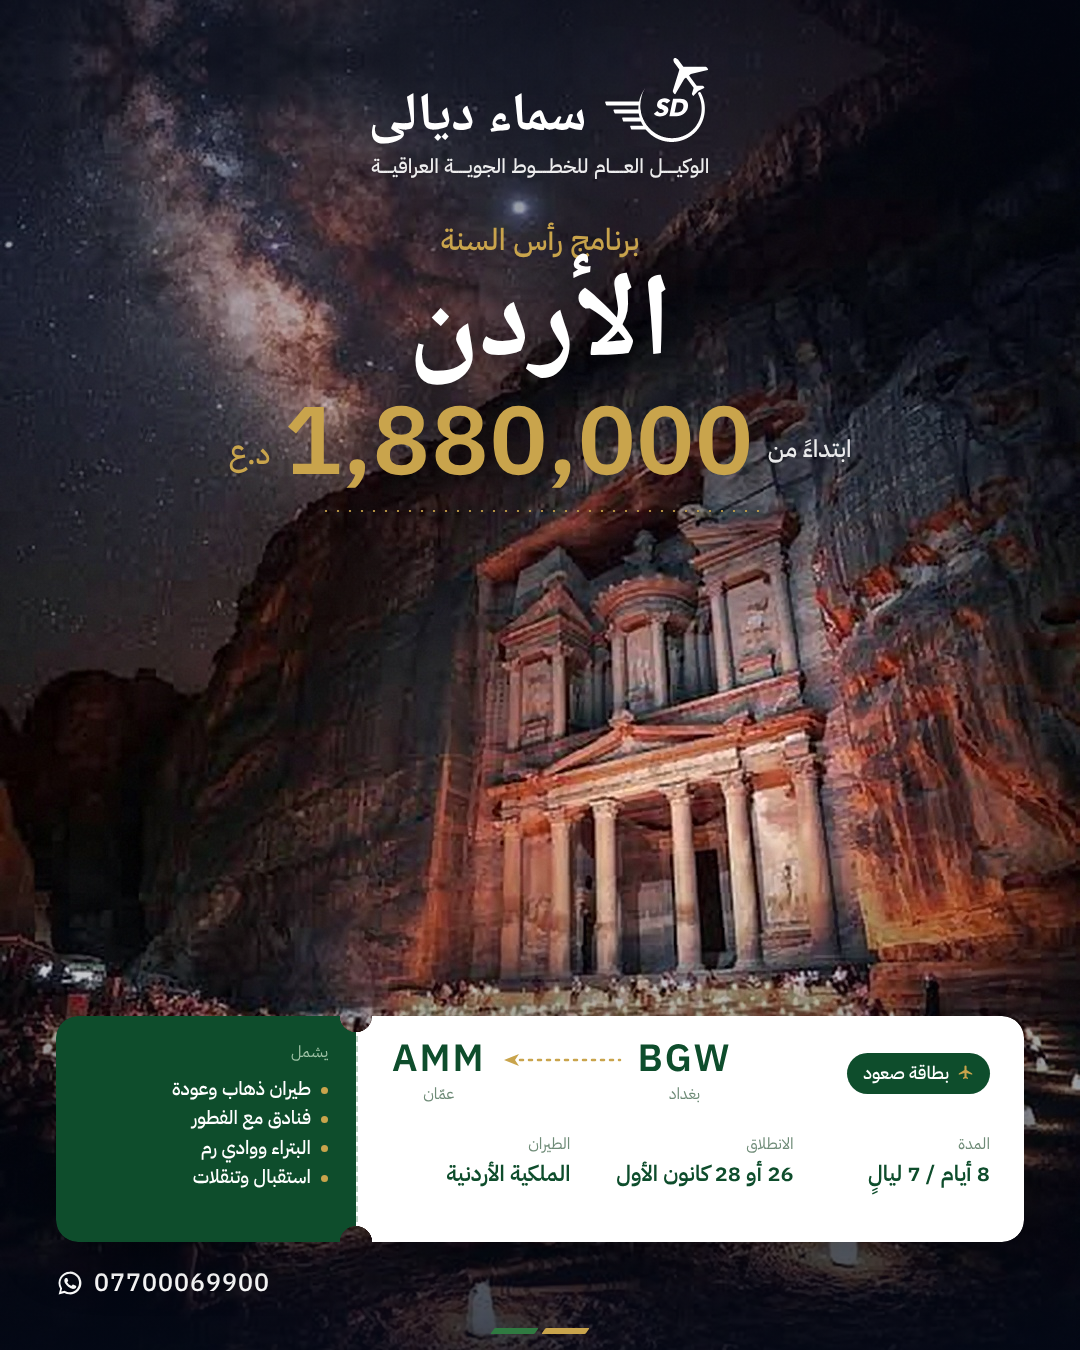
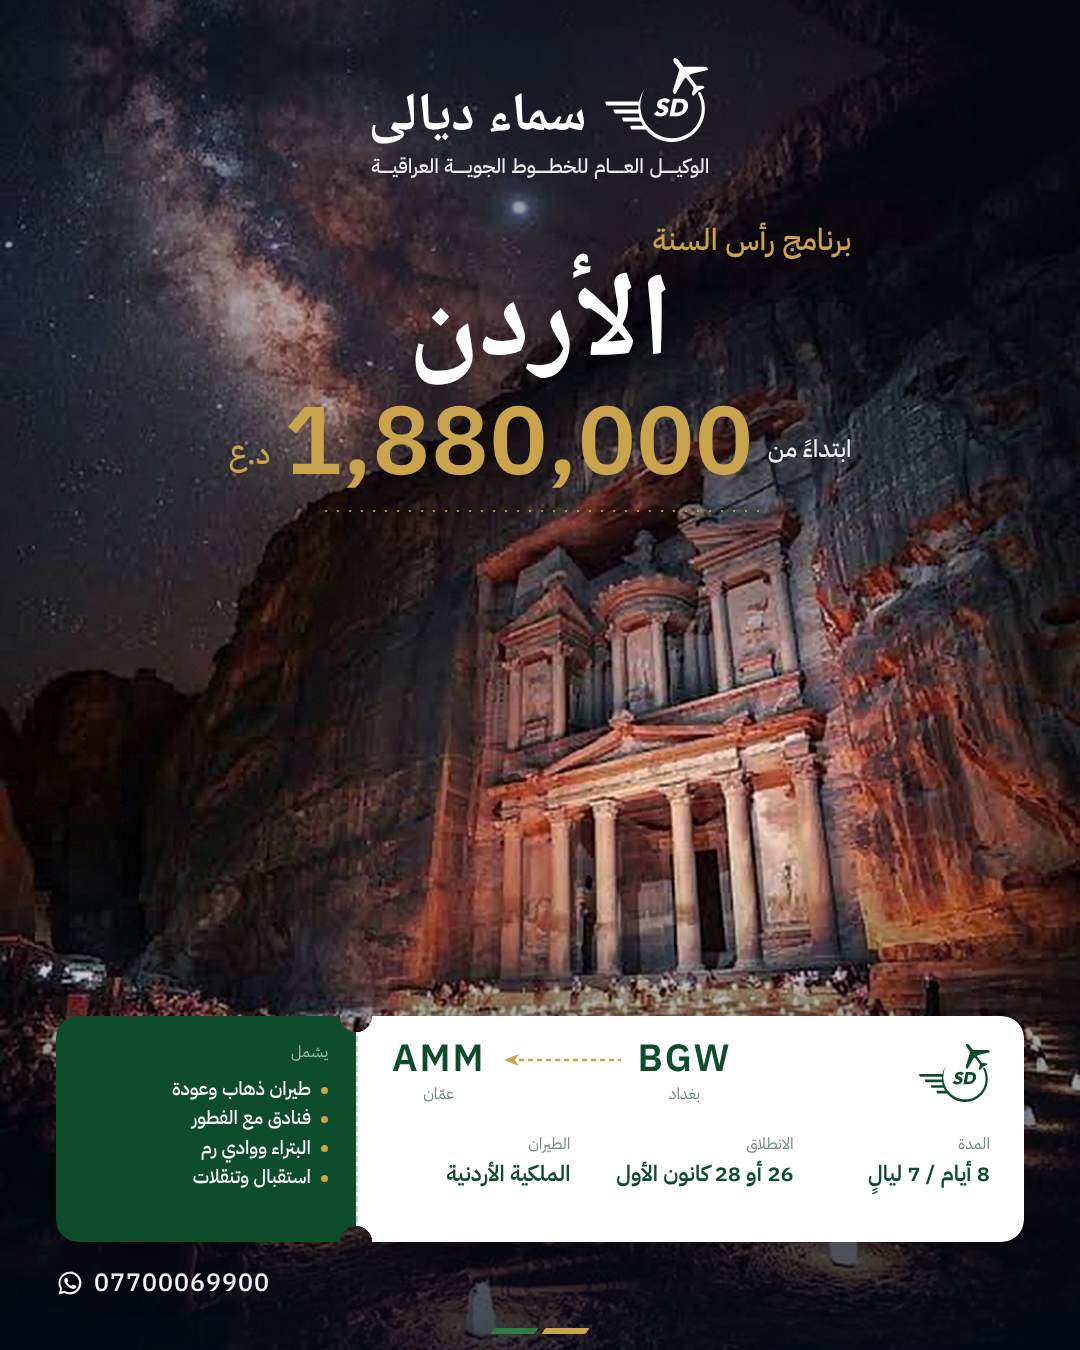
الأردن مع بطاقة صعود: محاذاة "برنامج رأس السنة" مع "ابتداءً من"، والرمز الأخضر بدل شارة بطاقة صعود
Claude-Session: https://claude.ai/code/session_01EprWPUJDuKvYHn821imCPv

Changed region(s): [[0.6111, 0.1556, 0.7944, 0.1867], [0.3972, 0.1556, 0.5806, 0.1867], [0.7639, 0.7778, 0.9167, 0.8089]]

diff --git a/09-التصاميم/الأردن رأس السنة - نظيف مع بطاقة صعود/إعلان.html b/09-التصاميم/الأردن رأس السنة - نظيف مع بطاقة صعود/إعلان.html
@@ -50,7 +50,7 @@
   .price .cur{font-family:Plex;font-weight:500;font-size:30px;position:relative;top:-10px}
   .airline{margin-top:10px;font-family:Plex;font-weight:500;font-size:22px;opacity:.92;display:flex;align-items:center;gap:14px;white-space:nowrap}
   .airline::before,.airline::after{content:"";width:46px;height:1px;background:currentColor;opacity:.6}
-  .kicker{margin-top:44px;font-family:Plex;font-weight:500;font-size:30px;line-height:1.2;color:var(--gold);letter-spacing:.5px}
+  .kicker{width:max-content;transform:translateX(var(--kick-dx,212px));margin-top:44px;font-family:Plex;font-weight:500;font-size:30px;line-height:1.2;color:var(--gold);letter-spacing:.5px}
   .kicker + .dest{margin-top:10px}
   /* boarding pass at the bottom */
   .pass{position:absolute;left:56px;right:56px;bottom:108px;height:226px;display:flex;direction:rtl;
@@ -63,6 +63,7 @@
   .pass .cut::before,.pass .cut::after{content:"";position:absolute;right:-17px;width:32px;height:32px;border-radius:50%;background:#2a2a35}
   .pass .cut::before{top:-16px} .pass .cut::after{bottom:-16px}
   .row1{display:flex;align-items:center;justify-content:space-between}
+  .bplogo{height:58px;display:block}
   .bp{display:inline-flex;align-items:center;gap:8px;background:var(--green);color:#fff;border-radius:999px;padding:6px 16px 8px;font-family:Plex;font-weight:500;font-size:18px}
   .bp svg{width:17px;height:17px;color:var(--gold)}
   .route{display:flex;align-items:flex-start;gap:16px;direction:ltr}
@@ -125,7 +126,7 @@
   <div class="pass">
     <div class="main">
       <div class="row1">
-        <div class="bp"><svg viewBox="0 0 24 24" fill="currentColor"><path d="M21.5 15.2v-1.9l-8-5V3.5a1.5 1.5 0 0 0-3 0v4.8l-8 5v1.9l8-2.5v5.3l-2 1.5V21l3.5-1 3.5 1v-1.5l-2-1.5v-5.3z"/></svg>بطاقة صعود</div>
+        <img class="bplogo" src="../../01-الشعار/أحادي بلا الاسم الصغير/الرمز - أخضر.svg" alt="">
         <div class="route">
           <div><div class="code">AMM</div><div class="city">عمّان</div></div>
           <svg viewBox="0 0 120 14"><line x1="18" y1="7" x2="118" y2="7" stroke="#C9A44C" stroke-width="2.5" stroke-dasharray="3 6" stroke-linecap="round"/><path d="M2 7 L17 1 L13 7 L17 13 Z" fill="#C9A44C"/></svg>

diff --git a/07-أدوات/ad_header_measure/align.js b/07-أدوات/ad_header_measure/align.js
@@ -1,0 +1,21 @@
+const {chromium}=require('playwright');
+(async()=>{
+  const [src,dx]=process.argv.slice(2);
+  const b=await chromium.launch({args:['--allow-file-access-from-files']});
+  const p=await b.newPage({viewport:{width:1080,height:1350},deviceScaleFactor:4});
+  await p.goto('file://'+src); await p.waitForFunction(()=>document.body.dataset.ready==='1');
+  if(dx) await p.addStyleTag({content:`:root{--kick-dx:${dx}px}`});
+  // ink right edges via canvas-free approach: render each element alone
+  const edge=async(sel)=>{
+    await p.addStyleTag({content:`.ad *{visibility:hidden!important} .ad{background:#000!important} ${sel},${sel} *{visibility:visible!important;color:#fff!important}`});
+    await p.waitForTimeout(100);
+    const box=await p.evaluate(s=>{const r=document.querySelector(s).getBoundingClientRect();return [r.left,r.top,r.width,r.height]},sel);
+    const buf=await p.screenshot({clip:{x:box[0]-4,y:box[1]-4,width:box[2]+8,height:box[3]+8}});
+    await p.evaluate(()=>{document.querySelectorAll('style').forEach((s,i,a)=>{if(i===a.length-1)s.remove()})});
+    return {buf,left:box[0]-4};
+  };
+  const fs=require('fs'); const a=await edge('.kicker'); const c=await edge('.price .from');
+  fs.writeFileSync('/tmp/claude-0/-home-user-sama-diyala/ac5234ca-4a29-5f40-9e89-18987c0271f8/scratchpad/bp/k.png',a.buf);
+  fs.writeFileSync('/tmp/claude-0/-home-user-sama-diyala/ac5234ca-4a29-5f40-9e89-18987c0271f8/scratchpad/bp/f.png',c.buf);
+  console.log(a.left,c.left); await b.close();
+})();

diff --git a/07-أدوات/ad_header_measure/ink2.py b/07-أدوات/ad_header_measure/ink2.py
@@ -1,0 +1,6 @@
+import sys,numpy as np
+from PIL import Image
+kl,fl=float(sys.argv[1]),float(sys.argv[2]); B='/tmp/claude-0/-home-user-sama-diyala/ac5234ca-4a29-5f40-9e89-18987c0271f8/scratchpad/bp/'
+def right(path,left):
+    a=np.array(Image.open(path).convert('L'))>80; xs=np.where(a.any(0))[0]; return left+(xs.max()+1)/4
+k=right(B+'k.png',kl); f=right(B+'f.png',fl); print(round(k,2),round(f,2),'dx',round(f-k,2))
